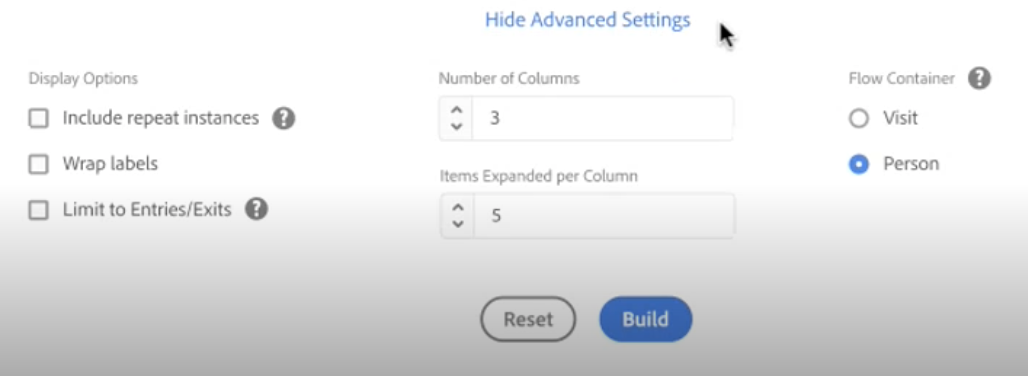
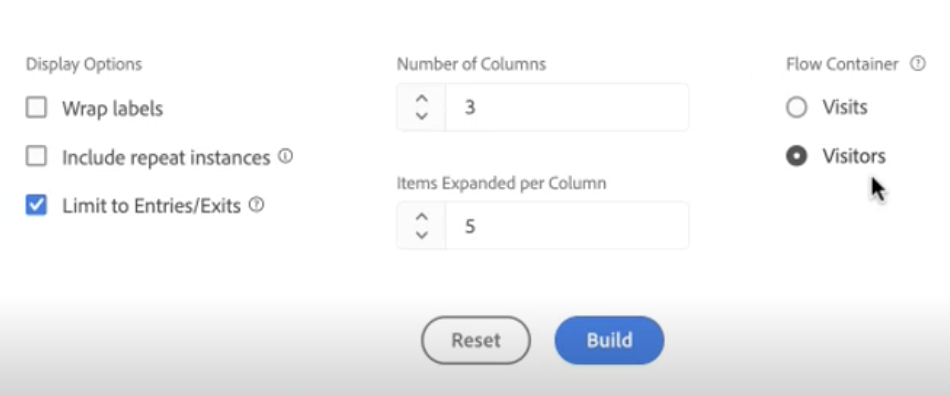
more flow stuff

diff --git a/help/analyze/analysis-workspace/visualizations/c-flow/create-flow.md b/help/analyze/analysis-workspace/visualizations/c-flow/create-flow.md
@@ -19,7 +19,9 @@ The new [!UICONTROL flow] experience enhances your workflow in several ways:
 * It contains [!UICONTROL Advanced Settings] to let you further customize the [!UICONTROL flow].
 * It lets you configure the [!UICONTROL flow] before building it.
 
-![](assets/new-flow.png)
+![new Flow UI](assets/new-flow.png)
+
+## Configuration steps {#configure}
 
 1. To start creating a flow diagram, add a blank panel to your project and click the visualizations icon in the left rail. Then drag the Flow visualization into the panel. Or drag the [!UICONTROL Flow] visualization into an existing project.
 
@@ -31,11 +33,58 @@ The new [!UICONTROL flow] experience enhances your workflow in several ways:
 
    Each of these categories is shown onscreen as a "drop zone." Drag items from the dimensions or metrics list and drop them into the desired drop zone.
 
-   For example, let's assume that you want to trace everything that leads up to a checkout event. You would drag a checkout-related dimension or metric into the **[!UICONTROL Ends with]** drop zone. 
+   For example, let's assume that you want to trace everything that leads up to a checkout event. You would drag a checkout-related dimension or metric (such as [!UICONTROL Order exists]) into the **[!UICONTROL Ends with]** drop zone. 
 
 1. If you choose a metric, you also need to provide a [!UICONTROL Pathing Dimension], as shown here. The default is Page.
 
-   ![](assets/pathing-dim.png)
+   ![pathing dimension](assets/pathing-dim.png)
 
-1. (Optional) Click **[!UICONTROL Advanced Settings]** to configure Advanced Settings:
+1. (Optional) Click **[!UICONTROL Show Advanced Settings]** to configure Advanced Settings:
 
+   ![advanced settings](assets/adv-settings.png)
+
+   | Setting | Description |
+   | --- | --- |
+   | **[!UICONTROL Include repeat instances]** | Flow visualizations are based on instances of a dimension. This setting gives you the option to include or exclude repeated instances, e.g. Page reloads. However, repeats cannot be removed from Flow visualizations that include multi-valued dimensions, such as listVars, listProps, s.product, merchandising eVars, etc. Default = unchecked. |
+   | **[!UICONTROL Wrap labels]** | Normally, the labels on the Flow elements are truncated to save screen real estate, but you can make the entire label visible by checking this box.  Default = unchecked. |
+   | **[!UICONTROL Limit to Entries/Exits]** | Results limited to paths when the first/last touchpoint is and entry/exit. |
+   | **[!UICONTROL Number of Columns]** | Determines how many columns you want in your Flow diagram. |
+   | **[!UICONTROL Items expanded per Column]** | How many items you want in each column. |
+   | **[!UICONTROL Flow Container]** | <ul><li>Visit</li><li>Visitor</li></ul> Lets you switch between Visit and Visitor to analyze visitor pathing. These settings help you understand visitor engagement at the visitor level (across visits), or constrain the analysis to a single visit.  |
+
+1. Click **[!UICONTROL Build]**.
+
+## View and change the Flow output {#output}
+
+![flow output](assets/flow-output.png)
+
+A summary of the Flow configuration appears at the top of the diagram. The paths in the diagram are proportional. Paths with more activity appear thicker. 
+
+To drill down further into the data, you have several options:
+
+* The flow diagram is interactive. Mouse over the diagram to change the details that are shown.
+
+* When you click on a node in the diagram, the details for that node appear. Click on the node again to collapse it.
+
+   ![node-details](assets/node-details.png)
+
+* You can filter a column to display only certain results, such as including and excluding, specifying criteria, etc.
+
+* Click the plus sign (+) on the left to expand a column.
+
+* Use the right-click options detailed below to further customize the output.
+
+* You can also export and further analyze your Flow diagram as part of a project's .CSV file by going to **[!UICONTROL Project]** > **[!UICONTROL Download CSV]**.
+
+
+## Right-click options {#right-click}
+
+| Option | Description |
+|--- |--- |
+| [!UICONTROL Focus on this node] | Change the focus to the selected node. The focus node appears at the center of the Flow diagram. |
+| [!UICONTROL Start Over] | Returns you to the Freeform diagram builder, where you can build a new Flow diagram. |
+| [!UICONTROL Create Segment from this point in flow] | Create a segment. This takes you into the Segment Builder, where you can configure the new segment. |
+| [!UICONTROL Breakdown] | Break the node down by available Dimensions, Metrics, or Time. |
+| [!UICONTROL Trend] | Create a trended diagram for the node. |
+| [!UICONTROL Expand entire column] | Expand a column to show all nodes. By default, only the top five nodes display. |
+| [!UICONTROL Collapse entire column] | Hide all nodes in a column. |
